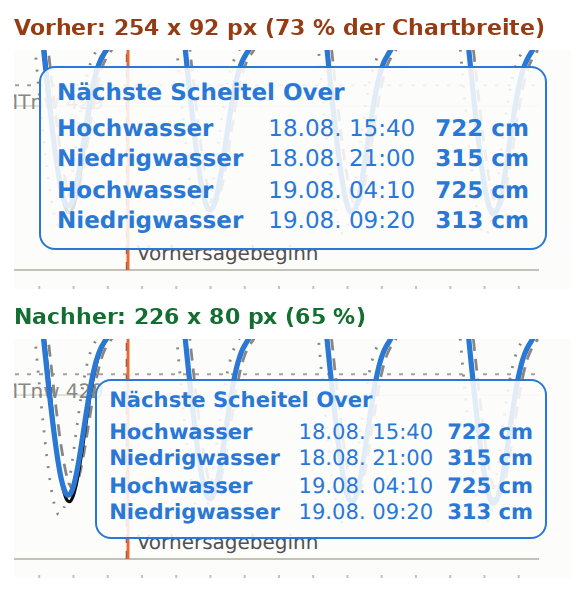
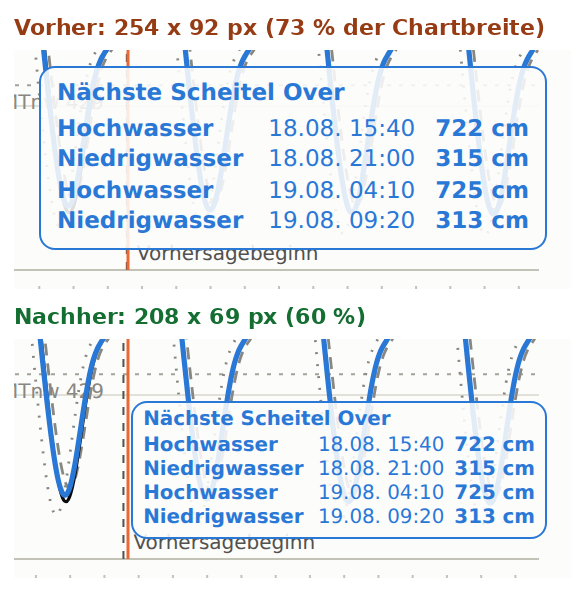
web: Tide-Info-Box noch etwas enger
Zweiter Schritt auf demselben Weg — Schrift, Zeilenhoehe und Abstaende
noch einmal reduziert:

  Schriftgroesse   0.66rem -> 0.62rem
  Zeilenhoehe      1.28    -> 1.2
  Padding          4px 6px -> 3px 5px
  Spaltenabstand   7px     -> 5px
  Titel-Abstand    2px     -> 1px

Damit 226x80 px -> 208x69 px, gegenueber dem Ausgangsstand also
254x92 px -> 208x69 px (73 % -> 60 % der Chartbreite auf dem Handy).

Die Label-Spalte bleibt bei 8.3em und skaliert als em-Wert mit, sodass
"Niedrigwasser" weiter hineinpasst.

Claude-Session: https://claude.ai/code/session_013PwiGFG6Qapg9uUSdxTNDf

Changed region(s): [[0.0615, 0.5169, 0.9538, 0.9426], [0.2462, 0.5169, 0.3077, 0.5473], [0.5231, 0.5169, 0.5538, 0.5473]]

diff --git a/web/src/styles.css b/web/src/styles.css
@@ -143,23 +143,23 @@ body {
   bottom: 84px;
   right: 12px;
   z-index: 2;
-  padding: 4px 6px;
+  padding: 3px 5px;
   background: color-mix(in srgb, var(--surface) 88%, transparent);
   border: 1px solid;
   border-radius: 8px;
-  font-size: 0.66rem;
-  line-height: 1.28;
+  font-size: 0.62rem;
+  line-height: 1.2;
   pointer-events: none;
 }
 
 .tide-info-title {
   font-weight: 600;
-  margin-bottom: 2px;
+  margin-bottom: 1px;
 }
 
 .tide-info-row {
   display: flex;
-  gap: 7px;
+  gap: 5px;
   white-space: nowrap;
 }
 
